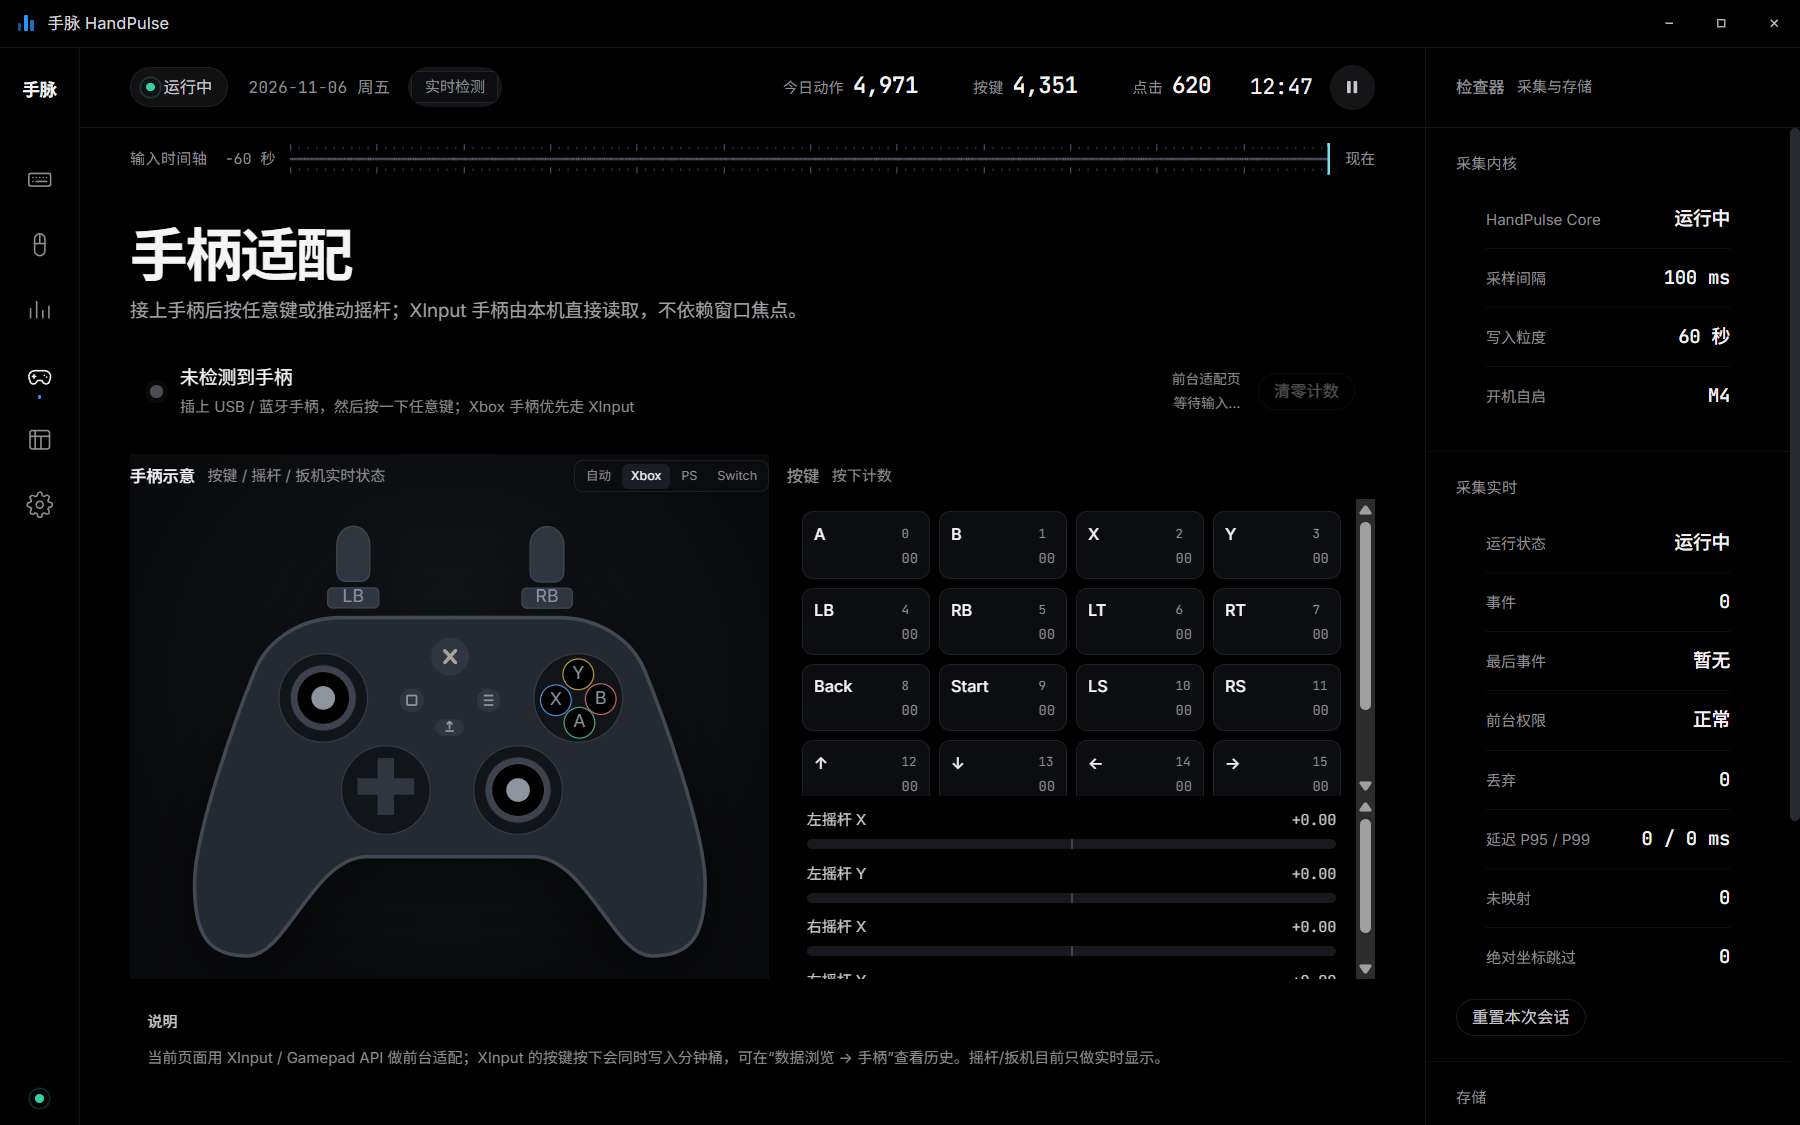
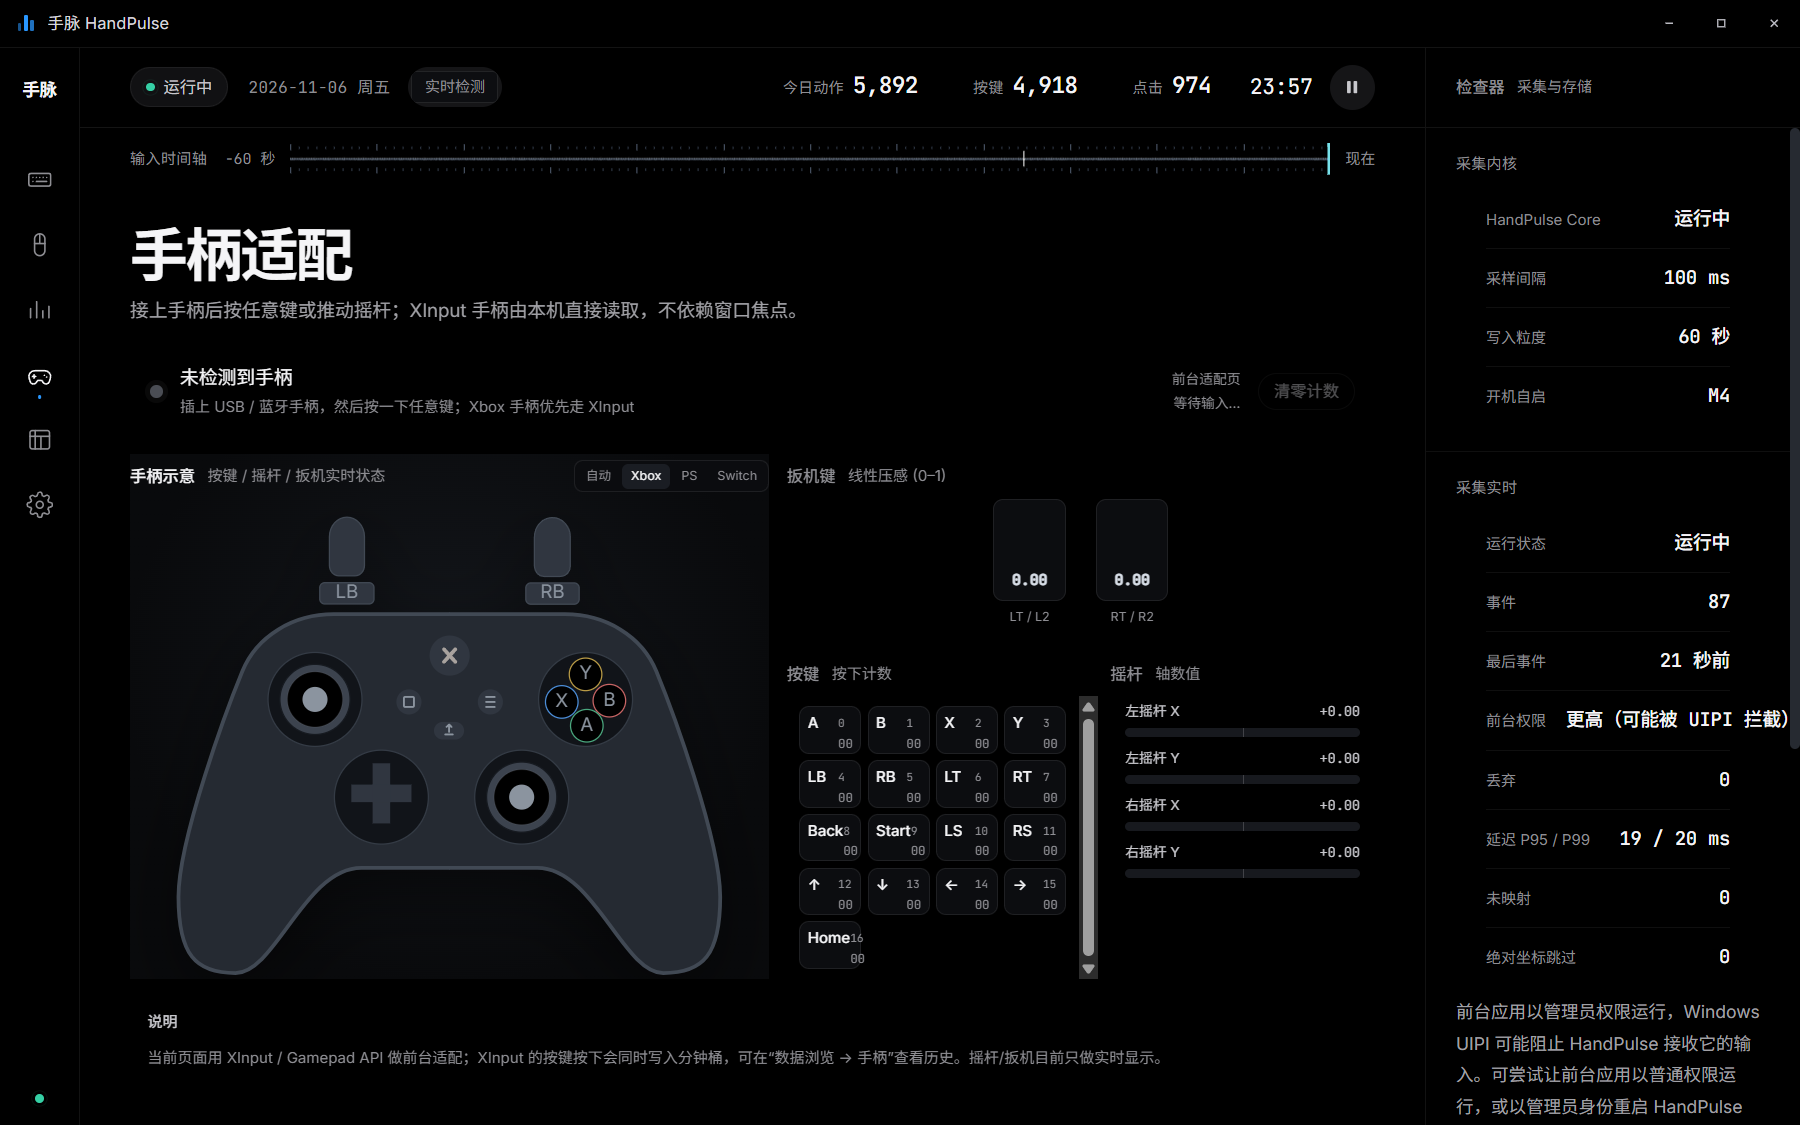
fix(gamepad): align overlay with SVG and add trigger columns

diff --git a/app/src/styles/gamepad.css b/app/src/styles/gamepad.css
@@ -13,14 +13,14 @@
 .pad-visual .ph-title{color:var(--text)}
 .pad-visual .ph-meta{color:var(--text-3)}
 .pad-art{position:relative;flex:1 1 auto;min-height:0}
-.pad-art-base,.pad-overlay{position:absolute;inset:8px 18px 14px}
+.pad-art-base,.pad-overlay{position:absolute;inset:0}
 .pad-art-base svg,.pad-overlay{display:block;width:100%;height:100%}
 .pad-art-base svg{overflow:visible;filter:drop-shadow(0 18px 26px rgba(0,0,0,.45))}
 .pad-overlay{overflow:visible;pointer-events:none}
 .pad-hit-halo{fill:rgba(41,151,255,.2);filter:blur(3px)}
 .pad-hit-ring{fill:none;stroke:#2997ff;stroke-width:2;filter:drop-shadow(0 0 5px rgba(41,151,255,.65))}
 .pad-stick-dot{fill:#2997ff;filter:drop-shadow(0 0 6px rgba(41,151,255,.9))}
-.pad-trigger-fill{fill:#2997ff}
+.pad-trigger-mark{fill:#2997ff}
 
 /* 把网站 SVG 的浅色/Tailwind 色映射到 HandPulse 的深色界面 */
 .pad-art svg [class~="fill-stone-50"],
@@ -67,21 +67,34 @@
 .pad-layout-tabs button{height:20px;padding:0 7px;border-radius:5px;font-size:10px;color:var(--text-3)}
 .pad-layout-tabs button:hover{color:var(--text-2)}
 .pad-layout-tabs button.is-active{color:var(--text);background:#1a1d23}
-.pad-side{display:flex;flex-direction:column;min-height:0;overflow:hidden}
-.pad-panel{min-height:0}
-.pad-buttons{display:grid;grid-template-columns:repeat(4,minmax(0,1fr));gap:7px;padding:10px 12px;overflow:auto;max-height:238px}
+.pad-side{display:grid;grid-template-columns:minmax(0,1.08fr) minmax(0,.92fr);grid-template-rows:auto minmax(0,1fr);gap:10px;min-height:0;overflow:hidden;background:transparent;border:0;padding:0}
+.pad-side > .panel{min-height:0}
+.pad-trigger-panel{grid-column:1/-1;display:flex;flex-direction:column}
+.pad-trigger-grid{display:flex;justify-content:center;gap:24px;padding:0 14px 10px}
+.pad-trigger-item{display:flex;flex-direction:column;align-items:center;gap:5px}
+.pad-trigger-column{
+  width:58px;height:82px;border:1px solid rgba(255,255,255,.08);border-radius:8px;
+  background:#0c0d10;position:relative;overflow:hidden;
+  display:flex;align-items:flex-end;justify-content:center;
+}
+.pad-trigger-column.is-live{border-color:rgba(41,151,255,.55)}
+.pad-trigger-fill{position:absolute;left:0;right:0;bottom:0;background:linear-gradient(180deg,#4da8ff,#2168c8);transition:height .05s linear}
+.pad-trigger-value{position:relative;z-index:1;font-size:12px;color:#d7dde6;margin-bottom:7px}
+.pad-trigger-label{font-size:10px;color:var(--text-3)}
+.pad-buttons-panel,.pad-axes-panel{display:flex;flex-direction:column;overflow:hidden}
+.pad-buttons{display:grid;grid-template-columns:repeat(4,minmax(0,1fr));gap:5px;padding:8px 10px;overflow:auto;flex:1 1 auto;min-height:0;max-height:none}
 .pad-btn{
-  min-height:54px;border:1px solid rgba(255,255,255,.08);border-radius:9px;background:#0c0d10;
+  min-height:38px;border:1px solid rgba(255,255,255,.08);border-radius:8px;background:#0c0d10;
   display:grid;grid-template-columns:1fr auto;grid-template-rows:auto auto;align-items:center;
-  padding:7px 9px;transition:background .08s ease,border-color .08s ease,transform .08s ease;
+  padding:4px 6px;transition:background .08s ease,border-color .08s ease,transform .08s ease;
 }
 .pad-btn.is-down{background:rgba(41,151,255,.18);border-color:#2997ff;transform:translateY(-1px)}
-.pad-btn-label{font-size:13px;color:var(--text);font-weight:500}
-.pad-btn-idx{font-size:10px;color:var(--text-3)}
-.pad-btn-count{grid-column:2;grid-row:2;font-size:11px;color:var(--text-3);text-align:right}
-.pad-axes{padding:10px 16px 4px;display:flex;flex-direction:column;gap:11px;overflow:auto}
-.pad-axis-top{display:flex;justify-content:space-between;font-size:12px;color:var(--text-2);margin-bottom:6px}
-.pad-axis-track{height:8px;border-radius:4px;background:#17191e;position:relative;overflow:hidden}
+.pad-btn-label{font-size:12px;color:var(--text);font-weight:500}
+.pad-btn-idx{font-size:9px;color:var(--text-3)}
+.pad-btn-count{grid-column:2;grid-row:2;font-size:10px;color:var(--text-3);text-align:right}
+.pad-axes{padding:4px 12px 4px;display:flex;flex-direction:column;gap:9px;overflow:auto;flex:1 1 auto;min-height:0}
+.pad-axis-top{display:flex;justify-content:space-between;font-size:11px;color:var(--text-2);margin-bottom:5px}
+.pad-axis-track{height:7px;border-radius:4px;background:#17191e;position:relative;overflow:hidden}
 .pad-axis-zero{position:absolute;left:50%;top:0;bottom:0;width:1px;background:rgba(255,255,255,.18)}
 .pad-axis-fill{position:absolute;top:0;bottom:0;background:var(--accent);border-radius:4px;transition:width .05s linear}
 .pad-hint{font-size:12px;line-height:1.6;color:var(--text-3);padding:0 16px 14px;margin-top:auto}

diff --git a/app/src/pages/GamepadPage.tsx b/app/src/pages/GamepadPage.tsx
@@ -159,32 +159,56 @@ export function GamepadPage({ active }: Props) {
           <ControllerGraphic type={view} buttons={pad.buttons} axes={pad.axes} triggers={pad.triggers} connected={pad.connected} />
         </div>
 
-        <div className="panel pad-side">
-          <div className="ph"><span className="ph-title">按键</span><span className="ph-meta">按下计数</span></div>
-          <div className="pad-buttons">
-            {BUTTONS.map(([i, label]) => (
-              <div key={i} className={'pad-btn' + (pad.buttons[i] ? ' is-down' : '')}>
-                <span className="pad-btn-label">{label}</span>
-                <span className="pad-btn-idx mono">{i}</span>
-                <span className="pad-btn-count mono">{String(counts[i] ?? 0).padStart(2, '0')}</span>
-              </div>
-            ))}
+        <div className="pad-side">
+          <div className="panel pad-trigger-panel">
+            <div className="ph"><span className="ph-title">扳机键</span><span className="ph-meta">线性压感 (0–1)</span></div>
+            <div className="pad-trigger-grid">
+              {[0, 1].map((i) => {
+                const value = Math.max(0, Math.min(1, pad.triggers[i] ?? 0));
+                return (
+                  <div className="pad-trigger-item" key={i}>
+                    <div className={'pad-trigger-column' + (value > 0.02 ? ' is-live' : '')}>
+                      <span className="pad-trigger-fill" style={{ height: (value * 100).toFixed(1) + '%' }} />
+                      <b className="pad-trigger-value mono">{value.toFixed(2)}</b>
+                    </div>
+                    <span className="pad-trigger-label">{i === 0 ? 'LT / L2' : 'RT / R2'}</span>
+                  </div>
+                );
+              })}
+            </div>
           </div>
-          <div className="pad-axes">
-            {pad.axes.map((v, i) => (
-              <div className="pad-axis" key={i}>
-                <div className="pad-axis-top"><span>{axisLabel(i)}</span><span className="mono">{v >= 0 ? '+' : ''}{v.toFixed(2)}</span></div>
-                <div className="pad-axis-track">
-                  <span className="pad-axis-zero" />
-                  <span
-                    className="pad-axis-fill"
-                    style={v >= 0
-                      ? { left: '50%', width: (Math.min(1, v) * 50).toFixed(1) + '%' }
-                      : { right: '50%', width: (Math.min(1, -v) * 50).toFixed(1) + '%' }}
-                  />
+
+          <div className="panel pad-buttons-panel">
+            <div className="ph"><span className="ph-title">按键</span><span className="ph-meta">按下计数</span></div>
+            <div className="pad-buttons">
+              {BUTTONS.map(([i, label]) => (
+                <div key={i} className={'pad-btn' + (pad.buttons[i] ? ' is-down' : '')}>
+                  <span className="pad-btn-label">{label}</span>
+                  <span className="pad-btn-idx mono">{i}</span>
+                  <span className="pad-btn-count mono">{String(counts[i] ?? 0).padStart(2, '0')}</span>
                 </div>
-              </div>
-            ))}
+              ))}
+            </div>
+          </div>
+
+          <div className="panel pad-axes-panel">
+            <div className="ph"><span className="ph-title">摇杆</span><span className="ph-meta">轴数值</span></div>
+            <div className="pad-axes">
+              {pad.axes.map((v, i) => (
+                <div className="pad-axis" key={i}>
+                  <div className="pad-axis-top"><span>{axisLabel(i)}</span><span className="mono">{v >= 0 ? '+' : ''}{v.toFixed(2)}</span></div>
+                  <div className="pad-axis-track">
+                    <span className="pad-axis-zero" />
+                    <span
+                      className="pad-axis-fill"
+                      style={v >= 0
+                        ? { left: '50%', width: (Math.min(1, v) * 50).toFixed(1) + '%' }
+                        : { right: '50%', width: (Math.min(1, -v) * 50).toFixed(1) + '%' }}
+                    />
+                  </div>
+                </div>
+              ))}
+            </div>
           </div>
         </div>
       </div>

diff --git a/app/src/components/ControllerGraphic.tsx b/app/src/components/ControllerGraphic.tsx
@@ -157,7 +157,7 @@ export function ControllerGraphic({ type, buttons, axes, triggers, connected = f
             width={type === 'xbox' ? 46 : type === 'playstation' ? 20 : 30}
             height="3"
             rx="1.5"
-            className="pad-trigger-fill"
+            className="pad-trigger-mark"
             opacity={0.35 + Math.min(0.65, triggers[0])}
           />
         )}
@@ -168,7 +168,7 @@ export function ControllerGraphic({ type, buttons, axes, triggers, connected = f
             width={type === 'xbox' ? 46 : type === 'playstation' ? 20 : 30}
             height="3"
             rx="1.5"
-            className="pad-trigger-fill"
+            className="pad-trigger-mark"
             opacity={0.35 + Math.min(0.65, triggers[1])}
           />
         )}

diff --git a/app/src/pages/SettingsPage.tsx b/app/src/pages/SettingsPage.tsx
@@ -254,7 +254,7 @@ export function SettingsPage({ active }: Props) {
           <div className="about-rows">
             <div className="pref-row">
               <div className="pref-label"><div className="pref-name">版本</div></div>
-              <div className="pref-ctl"><span className="ver mono">0.9.6<span>原型</span></span></div>
+              <div className="pref-ctl"><span className="ver mono">0.9.7<span>原型</span></span></div>
             </div>
             <div className="pref-row">
               <div className="pref-label"><div className="pref-name">数据库 schema</div></div>
